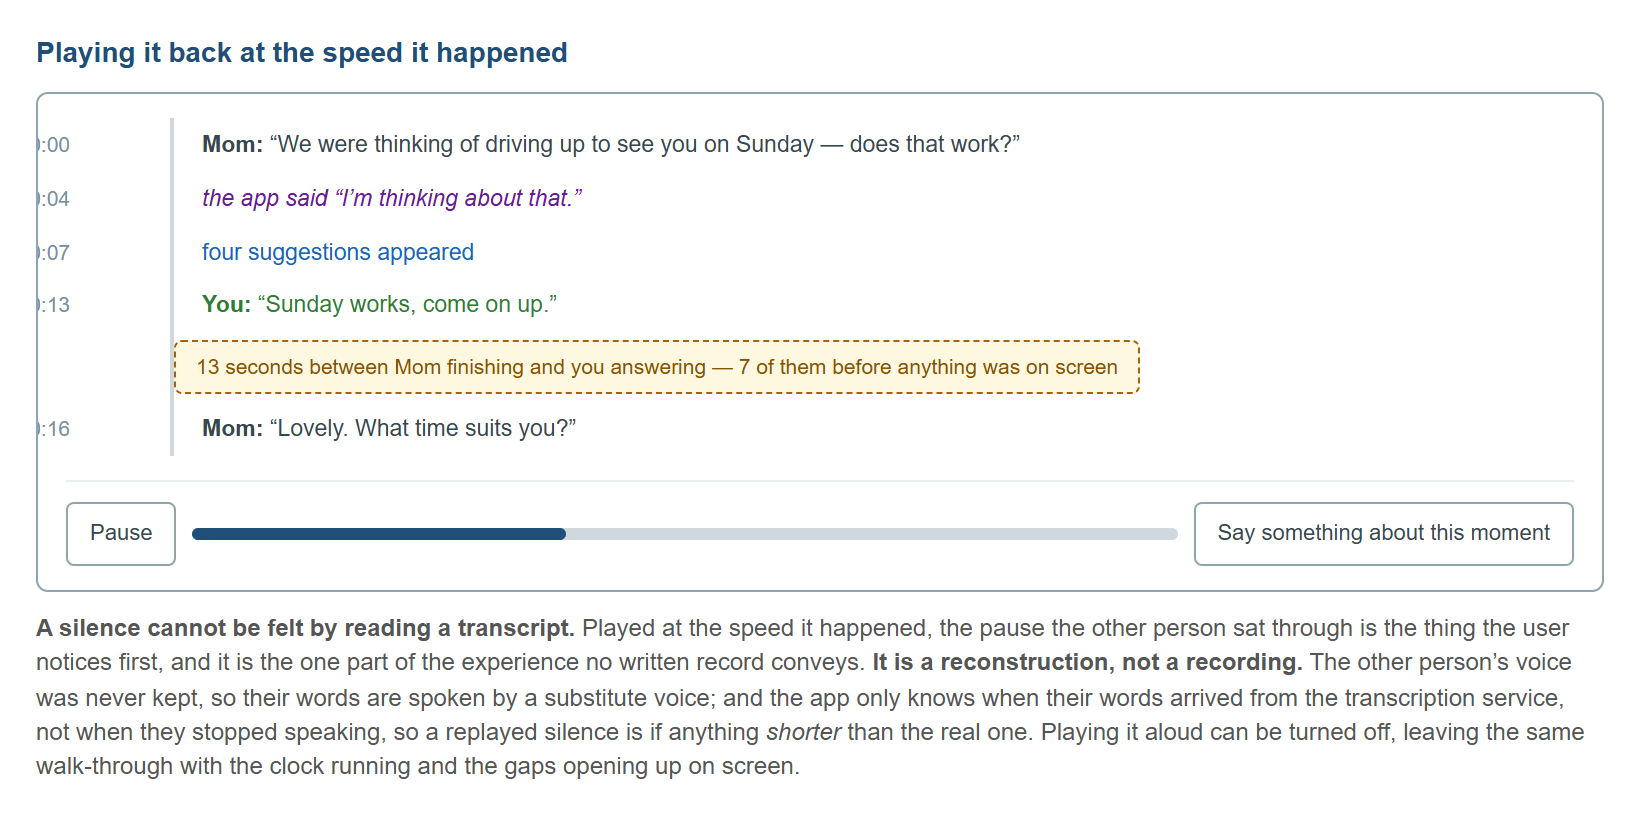
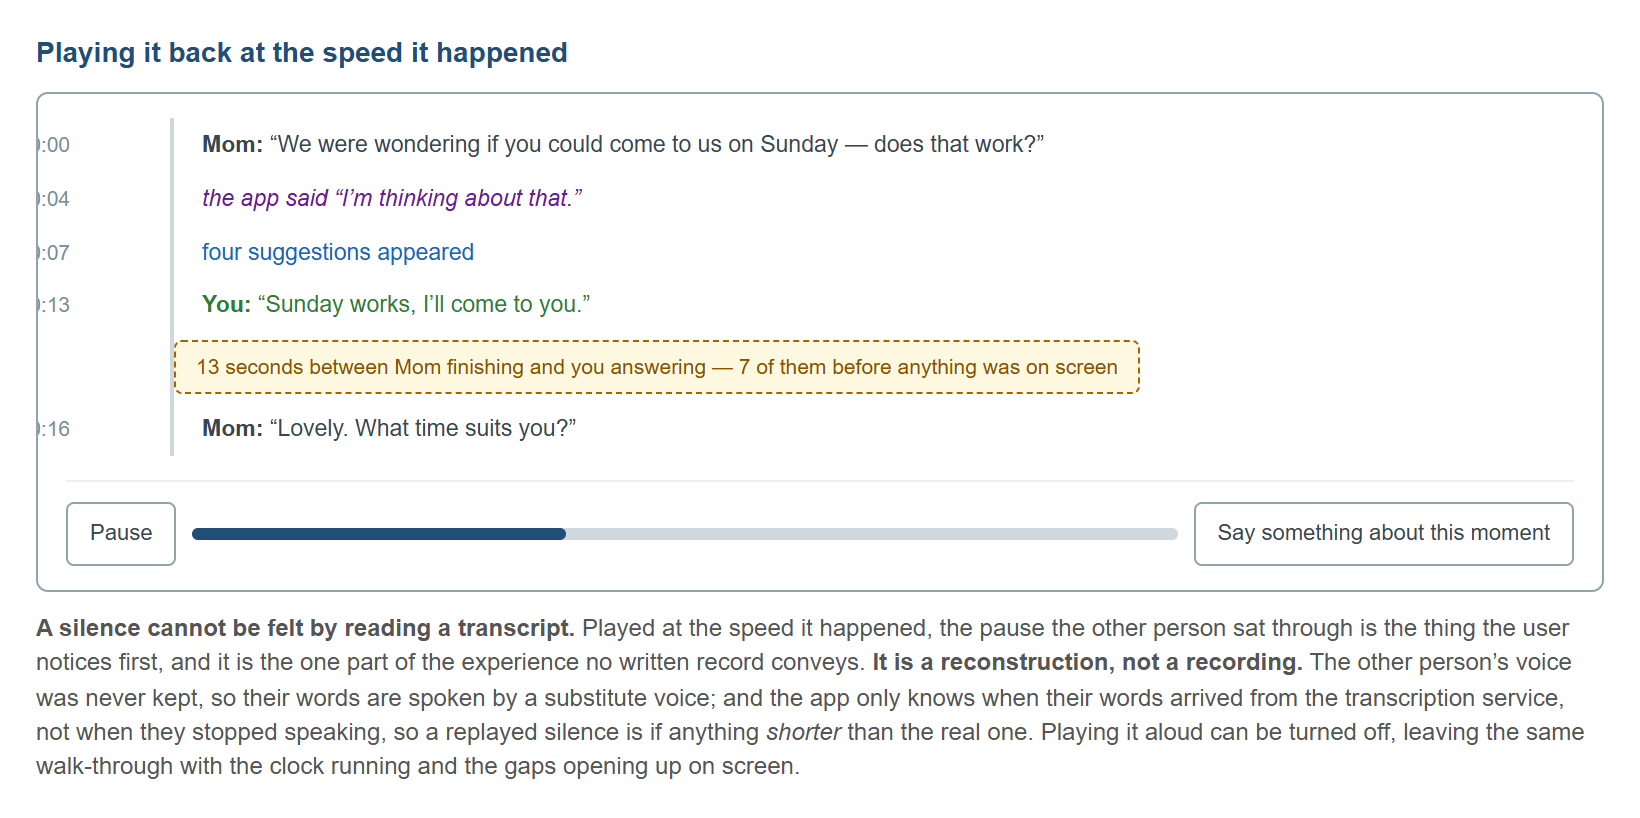
The sample conversation is face to face, not a phone call
Ken: "Better now that you've called" should be "Better now that you're here"
- Conversant does not support telephone calls.

His reason reaches past that line, and following it exposed a worse fault it
had been hiding. Mom offered to DRIVE UP to the user, while the flagship
example of what the user would rather have said - used in the prototype, in
two of the document's figures, and as the wording in the confirmation card -
is "I'd rather you came here." That is what she had just offered. The
example the whole feature is illustrated with contradicted the turn above it.

So Mom now asks the user to come to THEM, and everything downstream follows:
she offers to cook rather than to bring lunch, she will MAKE the soup rather
than bring it (the "soap" mishearing survives untouched), and she says "I
should get going" rather than "I'll let you go", which is a telephone idiom.

Every line now works with her in the room, and "I'd rather you came here -
my back has been rough this week" is finally an answer to the question above
it rather than a contradiction of it.

The document's prose never quoted the scenario, so only the figures changed.
Before overwriting it I compared the text of all 161 paragraphs against a
fresh generation to prove it held no hand edits, and it did not. Document
checks clean, Word opens it. 956 tests pass.

Changed region(s): [[0.2177, 0.1528, 0.622, 0.1834], [0.2488, 0.3667, 0.3421, 0.3973]]

diff --git a/prototypes/conversation-review.html b/prototypes/conversation-review.html
@@ -423,15 +423,15 @@ var MOMENTS = [
     cards: [
       {s:'pref', hint:"Good, busy",       text:"Pretty good, thanks — busy though."},
       {s:'disp', hint:"Not great",        text:"Honestly, not my best week."},
-      {s:'init', hint:"Better now",       text:"Better now that you've called."},
+      {s:'init', hint:"Better now",       text:"Better now that you're here."},
       {s:'rep',  hint:"Say again?",       text:"Sorry — could you say that again?"}
     ],
     took: 0, wait: 12, flag: null
   },
   {
-    partner: "We were thinking of driving up to see you on Sunday — does that work?",
+    partner: "We were wondering if you could come to us on Sunday — does that work?",
     cards: [
-      {s:'pref', hint:"Sunday's fine",      text:"Sunday works, come on up."},
+      {s:'pref', hint:"Sunday's fine",      text:"Sunday works, I'll come to you."},
       {s:'disp', hint:"Not Sunday",         text:"I'd love to, but Sunday isn't great for me."},
       {s:'init', hint:"Saturday instead?",  text:"Could we make it Saturday instead?"},
       {s:'rep',  hint:"Which Sunday?",      text:"Sorry — which Sunday do you mean?"}
@@ -456,10 +456,10 @@ var MOMENTS = [
     took: 0, usedSecondSet: true, wait: 21, flag: "asked for different suggestions"
   },
   {
-    partner: "Shall I bring lunch, or would you rather go out?",
+    partner: "Shall I cook, or would you rather go out?",
     closedSet: true,
     cards: [
-      {s:'pref', hint:"Bring lunch",  text:"Bring lunch — that would be lovely."},
+      {s:'pref', hint:"You cook",    text:"Cooking at yours would be lovely."},
       {s:'pref', hint:"Go out",       text:"Let's go out, my treat."},
       {s:'disp', hint:"Neither",      text:"Actually, I'd rather just have coffee."},
       {s:'init', hint:"You pick",     text:"Whichever is easier for you."}
@@ -468,8 +468,8 @@ var MOMENTS = [
     hintText: "When the other person puts choices on the table, the four suggestions become those choices instead of the usual four kinds of reply."
   },
   {
-    partner: "I'll bring that soap you like. Anything else you need?",
-    reallySaid: "I'll bring that soup you like. Anything else you need?",
+    partner: "I'll make that soap you like. Anything else you need?",
+    reallySaid: "I'll make that soup you like. Anything else you need?",
     cards: [
       {s:'pref', hint:"Nothing, thanks", text:"That's plenty, thank you."},
       {s:'disp', hint:"Don't bother",    text:"Please don't go to any trouble."},
@@ -481,7 +481,7 @@ var MOMENTS = [
     wait: 30, flag: "gave up and typed instead"
   },
   {
-    partner: "All right, I'll let you go. See you Sunday.",
+    partner: "All right, I should get going. See you Sunday.",
     closing: true,
     cards: [
       {s:'slate', hint:"See you Sunday", text:"See you Sunday. Love you."},

diff --git a/scripts/doc-generators/Review Figures.html b/scripts/doc-generators/Review Figures.html
@@ -119,10 +119,10 @@ not a filter the user has to accept. Practice conversations sit in the same list
 <div class="fig" id="f2">
 <h3>Looking at one moment</h3>
 <div class="screen"><div class="body">
- <div class="said"><b>Mom said:</b> &ldquo;We were thinking of driving up to see you on Sunday &mdash; does that work?&rdquo;</div>
+ <div class="said"><b>Mom said:</b> &ldquo;We were wondering if you could come to us on Sunday &mdash; does that work?&rdquo;</div>
 
  <div class="cards">
-  <div class="card c-pref taken"><span class="hint">Sunday&rsquo;s fine</span>Sunday works, come on up.<span class="tookit">you said this</span></div>
+  <div class="card c-pref taken"><span class="hint">Sunday&rsquo;s fine</span>Sunday works, I&rsquo;ll come to you.<span class="tookit">you said this</span></div>
   <div class="card c-disp"><span class="hint">Not Sunday</span>I&rsquo;d love to, but Sunday isn&rsquo;t great for me.</div>
   <div class="card c-init"><span class="hint">Saturday instead?</span>Could we make it Saturday instead?</div>
   <div class="card c-rep"><span class="hint">Which Sunday?</span>Sorry &mdash; which Sunday do you mean?</div>
@@ -155,10 +155,10 @@ card was nearest, while speaking the agreeable one, has a wording problem rather
 <h3>Playing it back at the speed it happened</h3>
 <div class="screen"><div class="body">
  <div class="tl">
-  <div class="ev"><span class="t">0:00</span><span class="who p-partner">Mom:</span> <span class="p-partner">&ldquo;We were thinking of driving up to see you on Sunday &mdash; does that work?&rdquo;</span></div>
+  <div class="ev"><span class="t">0:00</span><span class="who p-partner">Mom:</span> <span class="p-partner">&ldquo;We were wondering if you could come to us on Sunday &mdash; does that work?&rdquo;</span></div>
   <div class="ev"><span class="t">0:04</span><span class="p-app">the app said &ldquo;I&rsquo;m thinking about that.&rdquo;</span></div>
   <div class="ev"><span class="t">0:07</span><span class="p-cards">four suggestions appeared</span></div>
-  <div class="ev"><span class="t">0:13</span><span class="who p-you">You:</span> <span class="p-you">&ldquo;Sunday works, come on up.&rdquo;</span></div>
+  <div class="ev"><span class="t">0:13</span><span class="who p-you">You:</span> <span class="p-you">&ldquo;Sunday works, I&rsquo;ll come to you.&rdquo;</span></div>
   <div class="gap">13 seconds between Mom finishing and you answering &mdash; 7 of them before anything was on screen</div>
   <div class="ev"><span class="t">0:16</span><span class="who p-partner">Mom:</span> <span class="p-partner">&ldquo;Lovely. What time suits you?&rdquo;</span></div>
  </div>

diff --git a/DOC-SYNC.md b/DOC-SYNC.md
@@ -213,7 +213,7 @@ June 15 2026 convention requires. They are the only two documents missing it.
 | Conversant AAC Conversation Engine Design.docx | ✓ current | 2026-08-24 | `6d5249a` | **Synced Aug 24 2026 for 0.8.0 (the Express Panel bands).** The Express Panel choice-chip paragraph corrected to the far end of the Context band, with a standing reservation of four. *Prior:* Caught up to v0.5.93–v0.5.98. Added §4.1 "Closed-Set Turns" (offered_options, CHOICE/CHOICE_OTHER/CHOICE_ASK/CHOICE_REPAIR, Express Panel choice chips, steering persistence, renderer pure-family note) with a Figure 3a worked example; added §5.3 "Two-Step Closing, Pagination, and Declining a Closing" (WIND_DOWN vs CLOSING, no-LLM paging, CLOSING_DECLINE/reopenFromClosing); updated the mode table's PRE-CLOSING/CLOSING row; added offered_options to the §9.2 schema; added two §9.3 obligations bullets (offer-vs-mention, CLOSING definition); updated the Phasing and Traceability tables. **RESIDUAL:** no new figure for the CHOICE-card flow (no image toolchain on this box) — Figures 1–6 untouched. |
 | Conversant AAC Conversation Engine Overview.docx | ✓ current | 2026-09-08 | `0072923` | **Synced Sep 8 2026 for 0.10.7.** The slot table gained a Promise row: an option that asks for a moment rather than answering, offered only where the user certainly has the answer, marked so the sequence stays open, and never placed first - a constraint enforced in the engine because prompt wording could not hold it. |
 | Conversant AAC Conversation Goals.docx | ✓ current | 2026-09-10 | `82d8de8` | **Corrected Sep 10 2026 for 0.11.1.** Two items came off "Still Open". Saving the goals in force with each turn shipped in 0.11.1, and §8.5 now says so. The limit on how many Flex positions goals may take was never a gap: Ken, *"priority buttons push non-priority buttons off of the end of bands. The flex priorities are: goals, dimension-specific phrases, then Always phrases."* §8.5 now states that order. Folded into the generator in the same pass. *Prior:* **NEW Sep 10 2026.** Ken went looking for a document on conversational goals and found only a CLAUDE.md section plus Section 7 of "Reframe: Academic Foundations" - so this is that document, written the day the goal layer shipped. It states the premise (all conversation is goal-directed, short and long horizon), says how well it is supported and where it needs qualifying, describes the three layers and the three sources, and gathers in one place what the app deliberately does NOT do and why. **It SUPERSEDES Reframe §7 as the current account** - that section is still right about the two theories and out of date about what was built, and its central recommendation (organize the controls by primary versus secondary goals) was considered and rejected. Section 7 of the new document is the table of divergences from the literature. Every citation was checked against a source in the writing rather than recalled. |
-| Conversant AAC Conversation Review.docx | ✓ current | 2026-09-23 | `db5f1e1` | **NEW Sep 23 2026.** The first of four steps Ken set out for the conversation-review feature: this document, then a UI prototype for the speech and language therapists to comment on, then an architecture and interface design document, then the build. **Nothing it describes is built**, and it says so on the first page. It carries the purpose (review is the only time the user can think about their communication with nobody waiting), what the record already holds, the way in through a Review tab in Settings, the moment screen, real-time playback, where what the user says ends up, the practice case, privacy, and seven open questions aimed at the therapists. Four figures from "Review Figures.html" via capture-review-figures.js. **Three positions of mine that Ken reversed are carried in the text with their reasoning, not quietly absorbed:** grading is per considered card and never per set (the four are different kinds of reply, so scoring all four rates cards nobody looked at); real-time playback is worth building because a silence cannot be felt by reading; and "the app must never grade the user" was too absolute - a remark about the exchange is legitimate and is offered in practice, a verdict on the person never is. Regenerating needs the post-processing chain in the generator header (drawing ids, table style, paragraph spacing) and FORCE_DOC_WRITE=1, since those rewrites move the manifest hash. |
+| Conversant AAC Conversation Review.docx | ✓ current | 2026-09-23 | `db5f1e1` | **Figures redrawn Sep 23 2026, same day.** Ken: the app does not support telephone calls, and the sample conversation read as one. Rebuilding it face to face exposed a worse fault it had been hiding: Mom offered to drive up to the user, while the document's flagship example of what the user would rather have said is "I'd rather you came here" - which is what she had just offered. She now asks the user to come to THEM, so the example is coherent. Prose unchanged; only the figures carried the scenario. *Prior:* **NEW Sep 23 2026.** The first of four steps Ken set out for the conversation-review feature: this document, then a UI prototype for the speech and language therapists to comment on, then an architecture and interface design document, then the build. **Nothing it describes is built**, and it says so on the first page. It carries the purpose (review is the only time the user can think about their communication with nobody waiting), what the record already holds, the way in through a Review tab in Settings, the moment screen, real-time playback, where what the user says ends up, the practice case, privacy, and seven open questions aimed at the therapists. Four figures from "Review Figures.html" via capture-review-figures.js. **Three positions of mine that Ken reversed are carried in the text with their reasoning, not quietly absorbed:** grading is per considered card and never per set (the four are different kinds of reply, so scoring all four rates cards nobody looked at); real-time playback is worth building because a silence cannot be felt by reading; and "the app must never grade the user" was too absolute - a remark about the exchange is legitimate and is offered in practice, a verdict on the person never is. Regenerating needs the post-processing chain in the generator header (drawing ids, table style, paragraph spacing) and FORCE_DOC_WRITE=1, since those rewrites move the manifest hash. |
 | Conversant AAC Express Panel Design.docx | ✓ current | 2026-09-14 | `db5f1e1` | **Synced Sep 14 2026 for 0.12.0 - the overflow rule it recorded was REPLACED.** Every place the document said surplus Always phrases queue at the end of the Flex band now says each band pages its own overflow with a More button: the band table's Always and Flex cells, the folders table ("the Flex band, plus an honest cap" became "a More button in the band itself"), the Growing-the-Context-band and ordering paragraphs, section 9's rule, and the closing summary. **Section 9's argument against paging is kept and answered rather than deleted**: it now says Ken chose paging anyway and how the design meets the objection (the button looks different, stays put, reads Close, and any other tap puts the panel back). The "no folders, no pages" section is marked partly superseded, with folders still ruled out. A paragraph records sound buttons and why playback mutes the microphone. *Prior:* **Synced Sep 10 2026 for 0.11.0.** Not a top-up: one sentence in it had become FALSE. §5.1 said *"The dividing line is speaking against influencing"* and *"Every other button on the panel speaks"* — and a goal button never speaks and lives in the Flex band. **Ken corrected the underlying rule the same day: what puts a button in a band is how its content is DETERMINED, not whether it speaks** (*"Goals are context dependent and therefore can't go in the context band... This is the typical behavior of the flex band"*), so the bold lead-in and that sentence are replaced with the rule as it actually stands — Always never changes, Context is where the user SUPPLIES the dimensions, Flex holds whatever is a function of them — with the goal button as the case that makes the difference plain. **And his second correction is kept because it inverts the safety argument this document had been making:** a button that cannot speak fails a mis-hit in the SAFE direction, so "it does not speak" is never a reason to move one out of a speaking band; the real exposure is adjacency, answered by grouping. The Flex band's table cell now leads with goals. **Edited with sub_in_run, not replaced** — that paragraph carries a bold lead-in sentence and a wholesale replacement would have collapsed the runs and lost it. |
 | Conversant AAC Configuration Model.docx | ✓ current | 2026-07-27 | `09a51ae` | **Silence period explained properly (Ken, Aug 9 2026): *“Ensure that the User Manuals (and maybe other documents) fully/properly explain what the Silence period parameter controls/represents.”*** Three defects, not one. The stated **default was 2 seconds** (it has been **0.5** since Aug 7 2026) and the **range 0.5–3.0** (a **0** option was added Aug 9), so both figures were wrong everywhere they appeared. And nothing said what the setting *represents*: the pause is a **checkpoint, not a stop** — recording continues, the partner’s turn ends when the **user answers**, and nothing is ever spoken unprompted, which is exactly what makes a short setting safe. That omission mattered because the natural reading of the old wording (“sends the partner’s speech to the AI”) is that a short setting risks cutting someone off, when the real cost is **discarded AI requests, i.e. money**. Settings-registry row rewritten: name **TRP silence threshold → Silence period**, default **1.5 s → 0.5 s**, range **0.5–3.0 → 0–3.0**, and the “why experiment” column re-pointed at the real trade-off, since its false-TRP framing predates the July 10 2026 reversal. Content is current; **At commit restamps at the next release push.** *Prior pass:* Synced for v0.5.93–v0.5.98: Build Status tab list corrected to ten tabs (added Practice, fixed ordering to match the shipped app); content-sets bullet notes the wind-down/closings split (v0.5.93); added two concrete registry-table rows — "Listening chime" (§4.1) and "Choice buttons in Express Panel" (§4.2) — each dated and explained as post-this-document additions, consistent with the doc's existing "Build Status" framing. Named settings profiles (v0.5.83) already covered from the prior sync. |
 | Conversant AAC UI-Design.docx | ✓ current | 2026-09-09 | `6e62eab` | **Synced Sep 9 2026 for 0.10.14.** Section 13 gained the two control types 0.10.14 introduced and it had no standard for: an UNINTERRUPTIBLE PROGRESS card (no buttons, Escape and backdrop dead, and it must COUNT rather than say "please wait" - a card that never changes is indistinguishable from a crash on a slow device, which is what made a user press the button again and lose the import) and a FORCED ACKNOWLEDGMENT card (one button, no way past it, never red). Without them the next blocking dialog has nothing to follow, which is what section 13 exists to prevent. *Prior:* **Restamped Sep 9 2026.** The stamp said `c93b349`, which is EARLIER than the commit that added the work the note describes - the row was edited inside `ff390a3` itself, so it could not name its own commit. Verified in the document rather than assumed: section 13 "Control Standards" is present, and so is the color rule ("in the panels, color means danger or state, never emphasis"). Advanced to the 0.10.12 release commit, which is where both landed. **Color rule added Sep 8 2026 (Ken).** In the panels, color means DANGER or STATE and never emphasis - the five button colors that had grown across Settings and About Me read as inconsistency rather than hierarchy, and nothing in a settings panel is more primary than the button beside it. The conversation surface keeps its accent fill, where a primary action genuinely exists. **Section 13 completed and ENFORCED Sep 8 2026.** Two rows were missing the standards they were written for - a Settings button now records its one appearance (a soft-gray fill, real border, small radius, taken by any button that declares nothing) and a text field records that it takes the same minimum height as a button. Section 13 now ends by naming tests/ui-standards.test.mjs, which measures the running app against it: writing the standards down was never the answer, since every one of them was already decided when the panel drifted. **Amended again Sep 8 2026:** every "Test this voice" / "Test partner voice" button is now just "Test" (Ken), so section 13 says so - and says the one thing that makes a shared label safe, that these two are told apart by WHERE THEY SIT rather than by their words. **Added Section 13 "Control Standards" Sep 8 2026 (Ken).** A catalogue of the sixteen control types and, for each, its face, its size, its behavior and what it must never do - plus the two questions that decide any control: is its face a FIXED function or CONTENT, and is it on the conversation surface or a supporter-assisted overlay. Nothing here is new policy; every entry was already settled, one at a time and months apart, and the section exists because a standard that cannot be looked up drifts - which it had. The old Section 13 is renumbered 14. **Amended Sep 5 2026 for 0.10.3.** The 20 mm touch-target passage said the physical-size goal became a user-scalable "Button size" setting. That slider is gone; the passage now says the borders between the screen areas are dragged directly, which grows the targets in the region enlarged and takes the room from the transcript. *Prior:* Synced for v0.5.93–v0.5.98: added a Build Status bullet + in-place §4/§12/§13 coverage of the new CHOICE-card family and Express Panel choice chips (framed as a deliberate, geometry-only exception to Rule 1 — cell count/position/size stay fixed, only cell content changes); added a "Static palettes" note (§13) covering openers/wind-downs/closings pagination via "New N" / re-pressing Wind down and the pinned "Actually, before you go —" decline-closing card; added the listening chime + pulsing Listen button (§3.3/§13/Rule 6), including the v0.5.98 once-per-conversation-with-auto-resume refinement. Not touched: pre-start screen sequencing and the API-key prompt (out of this doc's scope) and Practice Mode's Settings tab (Settings navigation isn't described here). Figures untouched (no image toolchain). |
